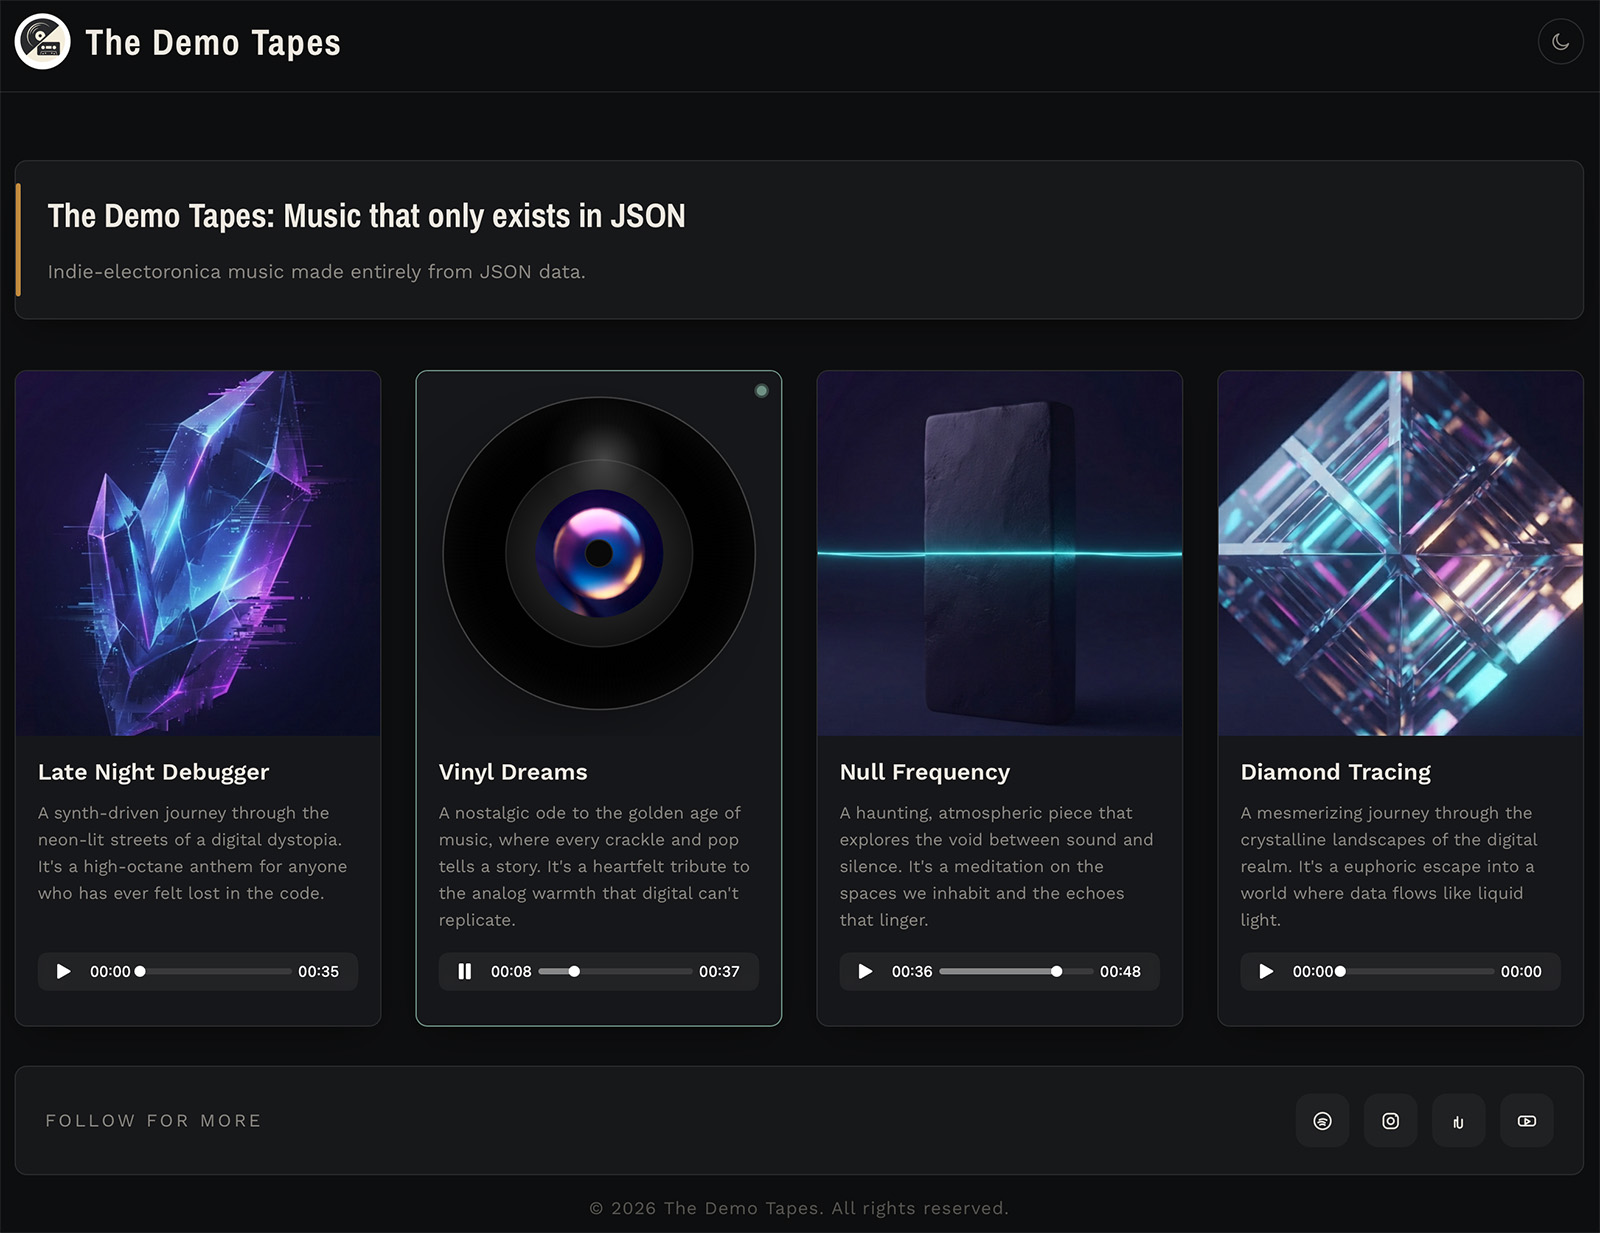
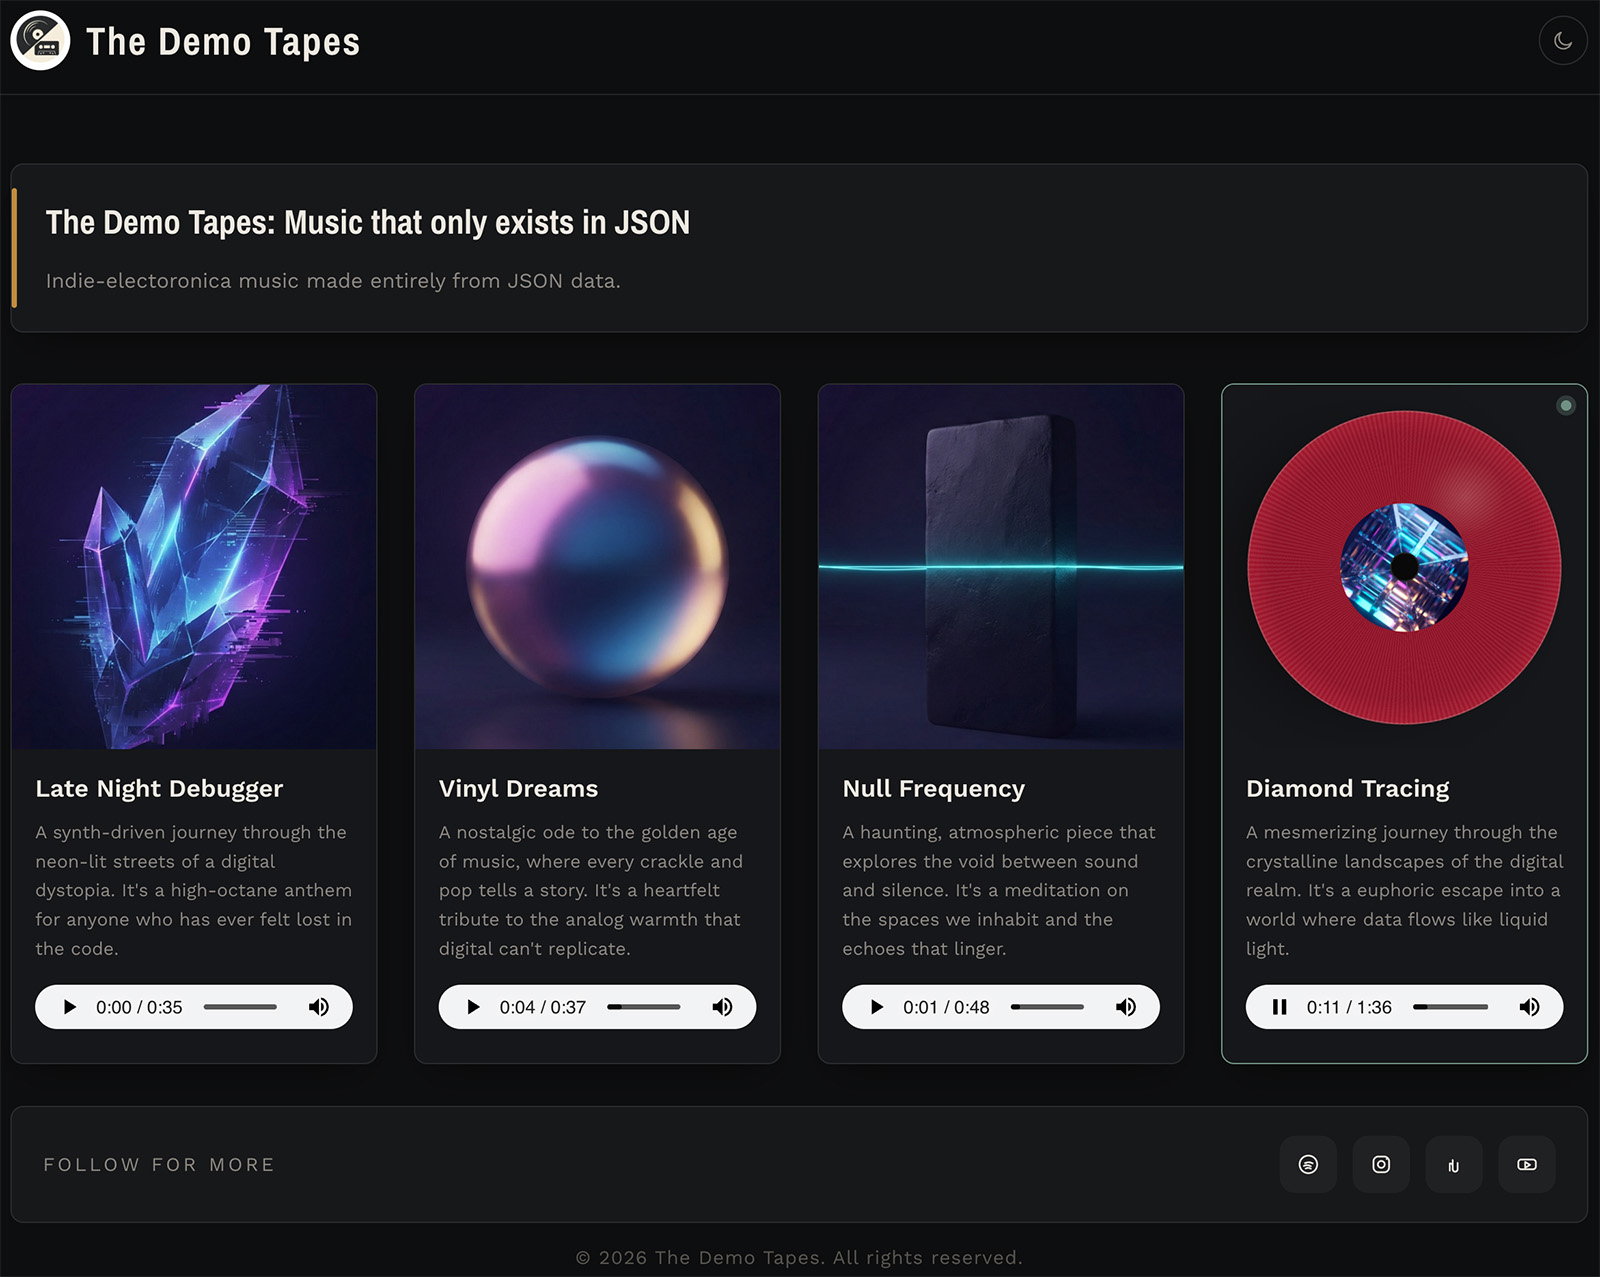
Added support for coloured vinyl per song

diff --git a/style.css b/style.css
@@ -404,12 +404,8 @@ a {
   position: absolute;
   inset: 7%;
   border-radius: 50%;
-  background:
-    radial-gradient(circle at 30% 28%, rgba(255, 255, 255, 0.28) 0%, rgba(255, 255, 255, 0.05) 12%, transparent 20%),
-    radial-gradient(circle at center, rgba(255, 255, 255, 0.08) 0%, rgba(0, 0, 0, 0.92) 18%, rgba(0, 0, 0, 0.98) 36%, rgba(0, 0, 0, 0.99) 100%),
-    repeating-conic-gradient(from 0deg, rgba(255, 255, 255, 0.12) 0deg 0.9deg, rgba(0, 0, 0, 0.1) 0.9deg 1.8deg),
-    radial-gradient(circle at center, rgba(255, 255, 255, 0.06) 0%, transparent 5%);
-  background-blend-mode: screen, multiply, normal, normal;
+  /* base color only; overlays moved to ::before so the hue shows through */
+  background: var(--vinyl-color, #090909);
   box-shadow: inset 0 0 0 1px rgba(255, 255, 255, 0.2), inset 0 0 18px rgba(0, 0, 0, 0.5), 0 28px 66px -32px rgba(0, 0, 0, 0.7);
   opacity: 0;
   transition: opacity 0.25s var(--ease);
@@ -421,10 +417,16 @@ a {
 .record::before {
   content: "";
   position: absolute;
-  inset: 20%;
+  inset: 0;
   border-radius: 50%;
-  background: radial-gradient(circle, rgba(255, 255, 255, 0.22) 0%, rgba(0, 0, 0, 0.34) 100%);
-  box-shadow: inset 0 0 0 1px rgba(255, 255, 255, 0.1);
+  pointer-events: none;
+  /* subtle highlight, grooves, and vignette as overlays so base colour shows */
+  background:
+    radial-gradient(circle at 30% 28%, rgba(255, 255, 255, 0.16) 0%, rgba(255, 255, 255, 0.02) 12%, transparent 20%),
+    repeating-conic-gradient(from 0deg, rgba(255, 255, 255, 0.05) 0deg 0.9deg, rgba(0, 0, 0, 0.02) 0.9deg 1.8deg),
+    radial-gradient(circle at center, rgba(0, 0, 0, 0.36) 60%, rgba(0, 0, 0, 0) 100%);
+  mix-blend-mode: normal;
+  opacity: 0.95;
 }
 
 .record::after {
@@ -432,7 +434,7 @@ a {
   position: absolute;
   inset: 52%;
   border-radius: 50%;
-  background: #090909;
+  background: rgba(0,0,0,0.95);
   box-shadow: inset 0 0 0 1px rgba(255, 255, 255, 0.07);
 }
 

diff --git a/script.js b/script.js
@@ -81,6 +81,16 @@ License: MIT
 
       const audioEl = card.querySelector("audio");
       const coverEl = card.querySelector(".cover-wrap");
+      const recordEl = card.querySelector(".record");
+      if (recordEl && song.vinyl) {
+        try {
+          const val = String(song.vinyl).trim();
+          recordEl.style.setProperty("--vinyl-color", val);
+          recordEl.dataset.vinyl = val; // helpful for debugging in DevTools
+        } catch (e) {
+          // ignore invalid values
+        }
+      }
       audioEl.setAttribute("playsinline", "");
 
       function setActiveCard(activeAudioEl) {

diff --git a/index.htm b/index.htm
@@ -41,7 +41,7 @@ License: MIT
     href="https://fonts.googleapis.com/css2?family=Archivo+Narrow:wght@400;500;600;700&family=Rufina:wght@500;700&family=Work+Sans:wght@400;500;600&display=swap"
     rel="stylesheet">
 
-  <link rel="stylesheet" href="style.css?v=20260713-7">
+  <link rel="stylesheet" href="style.css?v=20260716-4">
 </head>
 
 <body>
@@ -126,7 +126,7 @@ License: MIT
     </div>
   </main>
 
-  <script src="script.js?v=20260715-1"></script>
+  <script src="script.js?v=20260716-4"></script>
 </body>
 
 </html>

diff --git a/README.md b/README.md
@@ -66,6 +66,28 @@ Each track entry in `songs.json` should point to the correct image and audio fil
 }
 ```
 
+### Vinyl colour
+
+You can optionally set the vinyl disc colour per-track by adding a `vinyl` property to a `songs.json` entry. The player defaults to a black vinyl when the property is not present.
+
+Supported formats:
+- Hex values (e.g. `#ff0000`)
+- CSS colour names (e.g. `crimson`)
+
+Example:
+
+```json
+{
+  "title": "Vinyl Dreams",
+  "description": "A nostalgic ode...",
+  "image": "assets/covers/vinyl-dreams.jpg",
+  "mp3": "assets/audio/vinyl-dreams.mp3",
+  "vinyl": "#1e90ff"
+}
+```
+
+When a track with a `vinyl` colour is played, the spinning record will use the configured colour.
+
 ## Running Locally
 
 This project is a static site, so it can be hosted almost anywhere without a backend. No PHP, Python, ASP, Java, Node.js, or other server-side runtime is required.